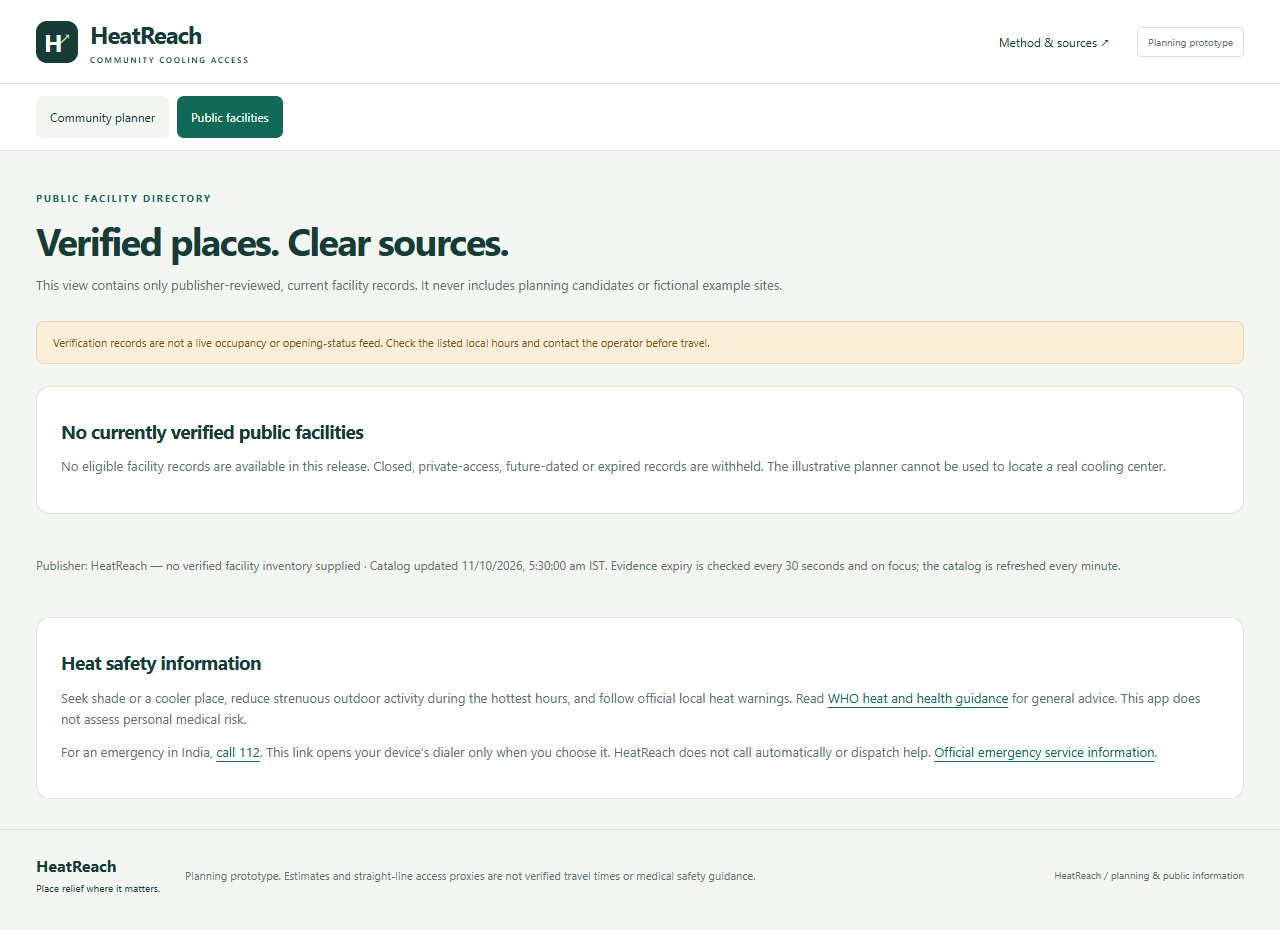
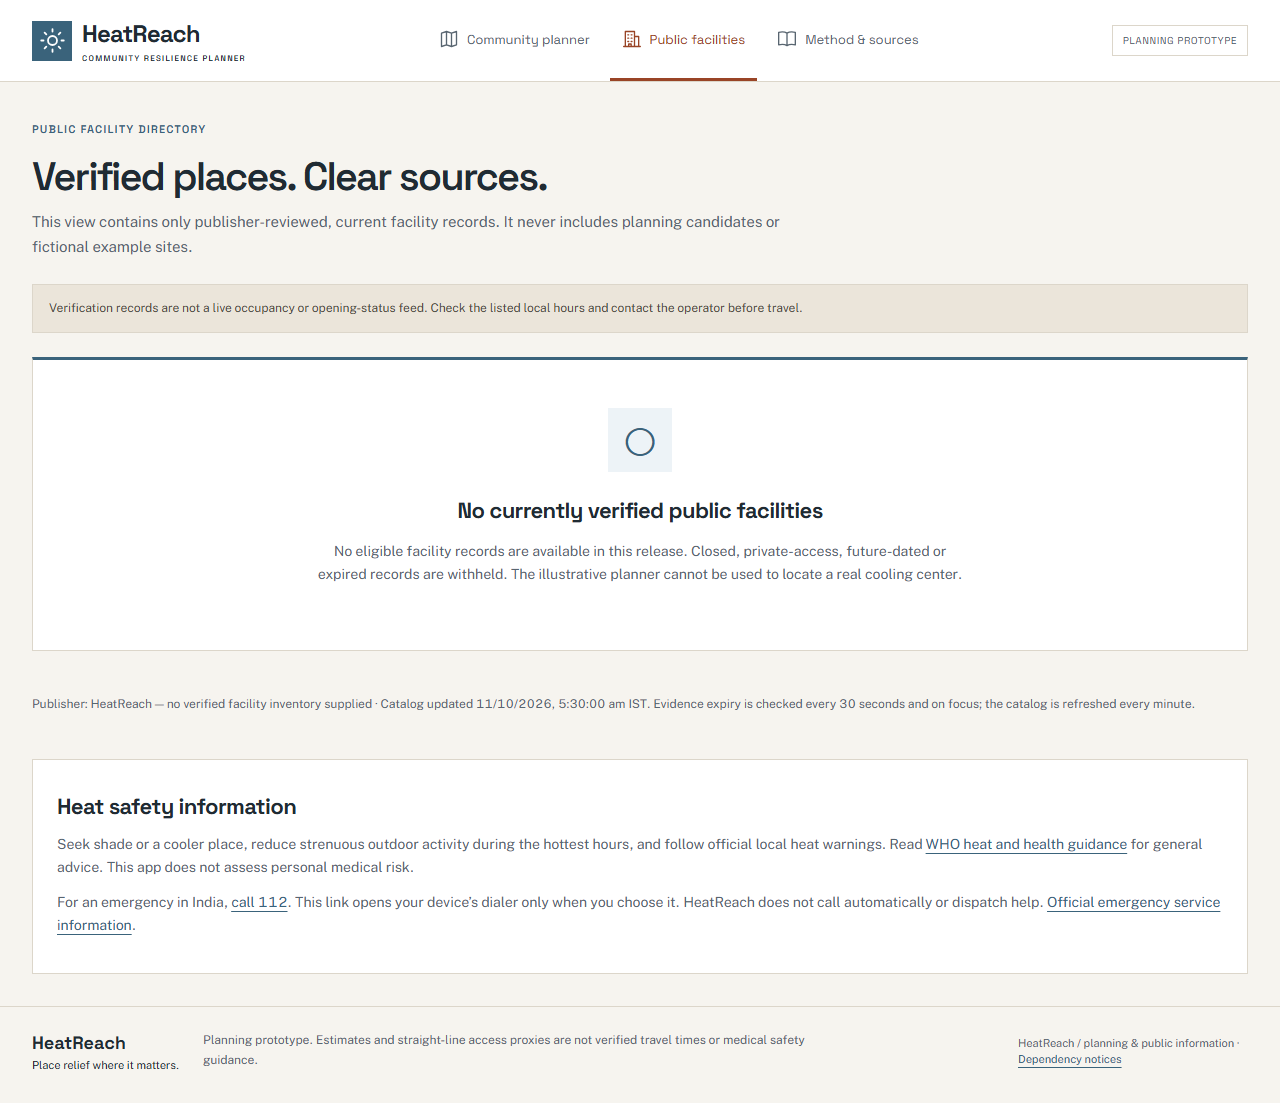
Record Stitch design decisions and verified responsive release previews

diff --git a/docs/EXECUTION_REPORT.md b/docs/EXECUTION_REPORT.md
@@ -19,8 +19,8 @@ The implementation retains the intended `src/engine`, `types`, `data`, `services
 | `npm install` | Installed dependencies and produced lockfile |
 | `npm test` | **67 tests passed, 10 files** |
 | `npm run typecheck` | Passed, zero TypeScript errors |
-| `npm run build` | Passed; 189 modules; static assets, fixture, catalog/data guide and runtime dependency notices |
-| `npm run test:e2e` | **7 browser tests passed**, installed Edge |
+| `npm run build` | Passed; 192 modules; static assets, fixture, catalog/data guide and runtime dependency notices |
+| `npm run test:e2e` | **8 browser tests passed**, installed Edge |
 | `npm run format:check` | Passed after formatting correction |
 | `npm audit --audit-level=high` | Zero reported vulnerabilities at verification time |
 | `npm run package` | Created and checked `release/heatreach-amplify.zip`; `index.html` at ZIP root; catalog, data guide and runtime notices included |
@@ -55,13 +55,13 @@ Browser checks exercise budget, eligibility, reset, cap, map/table consistency, 
 | Matched baseline constraints | PASS | Budget/cap/radius matrix tests |
 | Map/table/selection agree | PASS | React and browser tests |
 | Provenance and limitations visible | PASS | UI tests and screenshots |
-| Desktop and mobile UI | PASS | 1280×900 and 375×812 browser workflows |
+| Desktop and mobile UI | PASS | 1280×900, 820×1180 and 375×812 browser workflows |
 | P1 forecast with honest fallback | PASS | Unit/API contract tests, mocked browser failure and actual browser request |
 | P1 export and sensitivity | PASS | CSV escaping/provenance tests, exact recomputation and browser print/download |
 | P1 geographic input and map fallback | SOFTWARE PASS / REAL DATA REQUIRED | Schema, projection, permission, source requirements, attestation and browser tests; no real pilot supplied |
 | P2 public verified facilities | SOFTWARE PASS / INVENTORY REQUIRED | Separate catalog, expiry, permissions, search, map/cards, safety links and tests; shipped inventory empty |
 | Dossier incorporated | PASS | Reconciliation document and implemented evidence/operating metadata |
-| Required automated tests executed | PASS | 67 Vitest + 7 browser tests |
+| Required automated tests executed | PASS | 67 Vitest + 8 browser tests |
 | Production build | PASS | `npm run build` |
 | AWS Amplify HTTPS deployment | BLOCKED — HUMAN ACTION REQUIRED | Configure non-root authorized profile; run deployment steps and private-browser checks |
 | Public repository and accurate history | PARTIAL / HUMAN ACTION REQUIRED | Real milestone pushes; GitHub confirms private visibility; owner must make public and confirm event compliance |
@@ -79,3 +79,11 @@ Browser checks exercise budget, eligibility, reset, cap, map/table consistency, 
 
 Original user handoff extras (`context/HeatReach_Hackathon_Winning_Strategy_Team_Dossier.docx` and `context/README_START_HERE.md`) remain untouched locally and were not included in implementation commits. No private document was silently published.
 
+
+## Stitch design integration
+
+The supplied Stitch ZIP has been integrated into the working React application: flat ivory, terracotta and slate-blue surfaces; self-hosted Space Grotesk/Public Sans; square panel geometry; desktop navigation and mobile bottom navigation; collapsible planning controls; explicit map/table switching; and computed comparison callouts. Geographic, public-directory, weather, import and export interfaces share the design. See `DESIGN.md` for adaptations and source handling.
+
+The redesign passed all 67 unit/UI tests and 8 browser workflows, including tablet coverage and the new interactions. The existing optimizer and golden fixture were unchanged. The build includes local font assets and complete font license notices; no remote font or Tailwind CDN is required. Current overview screenshots are `screenshots/stitch-planner-desktop.png` and `screenshots/stitch-planner-mobile.png`. The earlier live-weather evidence was captured before this redesign; its readings are historical observations, not current conditions.
+
+The production build and Amplify archive were regenerated. AWS identity and verified facility data requirements remain unchanged.

diff --git a/docs/AI_AND_ATTRIBUTION.md b/docs/AI_AND_ATTRIBUTION.md
@@ -6,13 +6,13 @@ OpenAI Codex assisted with reading the user-provided handoff, implementing the e
 
 The user-provided Word strategy dossier was read in full, including tables, using document extraction; its guidance and differences from the newer master specification are recorded in `DOSSIER_RECONCILIATION.md`. The original private handoff was not automatically published.
 
-No AI-generated imagery, stock images, copied third-party artwork, externally hosted fonts or fake cloud screenshots are used. The logo is original HTML/CSS. The default map is fixture-generated SVG; optional geographic maps use attributed OSM tiles. Screenshots were captured from the actual running local application with Playwright. Automated geographic tests use invented records with tile requests blocked; these are not field evidence.
+The user supplied a Google Stitch UI export, used as the visual reference for the redesign documented in `DESIGN.md`. Its demonstration scripts, fabricated content and hotlinked imagery were not shipped. No AI-generated raster imagery, stock images, externally hosted fonts or fake cloud screenshots are used. The logo and icons are native SVG/HTML. The default map is fixture-generated SVG; optional geographic maps use attributed OSM tiles. Screenshots were captured from the actual running local application with Playwright. Automated geographic tests use invented records with tile requests blocked; these are not field evidence.
 
 ## Dependencies
 
 Direct dependency versions and transitive integrity hashes are fixed in `package-lock.json`. React/React DOM, Vite and its React plugin, Zod, Vitest, Testing Library packages, jsdom and the TypeScript type packages use MIT licenses. TypeScript and Playwright use Apache-2.0. Prettier uses MIT. Installed dependency license metadata and notices remain in each dependency package; generated build output retains relevant bundler notices. These licenses do not automatically assign a license to this project's original source or the supplied fixture.
 
-Leaflet 1.9.4 uses BSD-2-Clause; Leaflet type definitions use MIT. React Leaflet 5.0.0 and its core package use **Hippocratic-2.1**, with additional MIT notices for older portions. These are the installed package licenses, not an assumption that every React library is MIT. Full runtime dependency notices are distributed in `public/THIRD_PARTY_NOTICES.txt` and linked in the application footer. Preserve them in deployment and when updating dependencies. The application uses system fonts and browser primitives. AWS CLI is a local operator tool, not shipped in the frontend. Edge is used for automated browser QA, not redistributed.
+Leaflet 1.9.4 uses BSD-2-Clause; Leaflet type definitions use MIT. React Leaflet 5.0.0 and its core package use **Hippocratic-2.1**, with additional MIT notices for older portions. These are the installed package licenses, not an assumption that every React library is MIT. Full runtime dependency notices are distributed in `public/THIRD_PARTY_NOTICES.txt` and linked in the application footer. Preserve them in deployment and when updating dependencies. The application uses self-hosted Space Grotesk and Public Sans through pinned Fontsource variable packages, both SIL Open Font License 1.1, with system fallbacks. Full font licenses ship in the runtime notices. AWS CLI is a local operator tool, not shipped in the frontend. Edge is used for automated browser QA, not redistributed.
 
 ## Input credit and external references
 

diff --git a/docs/DESIGN.md b/docs/DESIGN.md
@@ -1,0 +1,25 @@
+# HeatReach interface design
+
+The 11 October 2026 redesign adapts the user-supplied `stitch_heatreach_resilience_planner_ui.zip`. Its two mobile HTML/screenshots and Cartographic Climate Matrix design guide establish the visual reference. Desktop, tablet and public-directory layouts extend that reference to the existing application.
+
+## Implemented visual system
+
+- Warm ivory canvas, white panels, charcoal text, terracotta selection/optimization accents and slate-blue controls and data surfaces. Sage is reserved for existing-access map markers. No gradients.
+- Square panel and control geometry, thin structural borders, geometric headings and tabular metrics.
+- Space Grotesk and Public Sans variable fonts served from the application's own assets. Fontsource packages are pinned, and complete SIL OFL notices ship in `public/THIRD_PARTY_NOTICES.txt`.
+- Native SVG icons replace the export's remote icon fonts and hotlinked logo. No Tailwind CDN, Google Fonts requests or exported demonstration scripts are loaded.
+- Desktop header navigation becomes a fixed, labelled bottom navigation bar on mobile. Page padding keeps the footer above it. Zooming remains enabled.
+- Collapsible planning controls and explicit schematic-map/accessible-table buttons. Desktop metrics precede the three-column workspace; mobile metrics follow the map and precede explanations.
+- Comparison callouts derive raw and weighted differences from the actual solver result. Geographic import, weather, CSV/print and verified-facility views share the new visual system.
+
+## Data and behavior retained
+
+The Stitch export is a visual reference, not a replacement for domain logic or source data. It contained invented site names, marginal gains, sensitivity results, a NOAA weather card, simulated state toggles, and unsupported claims about protection, walkability and vulnerability indicators. These were not imported. The canonical fixture, exact solver, first-eligible baseline, actual weather service, provenance requirements and public verification rules remain in force.
+
+The exported HTML's disabled browser zoom, unsupported accessibility certification badge, account avatar and inactive settings controls were also omitted. Existing keyboard focus, semantic controls, reduced-motion support, network failure states and print behavior remain available. The import panel stays expanded after pilot activation so returning to the illustrative scenario remains discoverable.
+
+## Verification
+
+67 domain/React tests and 8 Edge browser workflows pass. Browser checks cover 1280px desktop, 820px tablet and 375px mobile, with additional visual inspection at 1440px and 390px. They exercise the real optimization, collapse/expand, map/table switching, audience navigation, geographic import/reset, verification expiry, weather failure, export and print. No horizontal page overflow was detected at the tested widths.
+
+Current previews: [desktop](screenshots/stitch-planner-desktop.png), [mobile](screenshots/stitch-planner-mobile.png), [public directory](screenshots/public-empty-1280.png). Full-page planner evidence is saved at `planner-1280.png`, `planner-820.png` and `planner-375.png` in the same directory. Local screenshots do not establish AWS deployment.

diff --git a/docs/LIMITATIONS.md b/docs/LIMITATIONS.md
@@ -14,4 +14,4 @@
 - No accounts, durable scenario storage, telemetry, resident information or automatic geolocation are used. Edits/imports reset on reload. No service worker is installed. Manual weather/map loading shares request metadata and requested region/tile area with the respective providers; their terms apply.
 - Open-Meteo's free endpoint is for noncommercial use under its terms. Review the provider plan before commercial operation. OSM public tiles have usage restrictions and no guaranteed availability. Tables/cards remain usable without tiles.
 - AWS deployment and public HTTPS verification remain pending an authorized non-root account. Local functional success is not deployment success.
-- Browser QA covers installed Edge at desktop and mobile viewport sizes, keyboard navigation, print layout and network failures. It is not full cross-browser or professional accessibility certification.
+- Browser QA covers installed Edge at desktop, tablet and mobile viewport sizes, keyboard navigation, print layout and network failures. It is not full cross-browser or professional accessibility certification.

diff --git a/README.md b/README.md
@@ -8,6 +8,8 @@ A working, browser-only community cooling-access planner for campus administrato
 
 ![HeatReach desktop planner](docs/screenshots/planner-1280.png)
 
+The interface follows the supplied Stitch design: warm ivory, terracotta and slate-blue surfaces, self-hosted typography, responsive navigation and a map/table switch. See [design integration](docs/DESIGN.md).
+
 ## Run locally
 
 Prerequisites: Node.js **22.12 or newer** (Node 22 LTS recommended), npm, and a modern browser. No API keys, database or backend.
